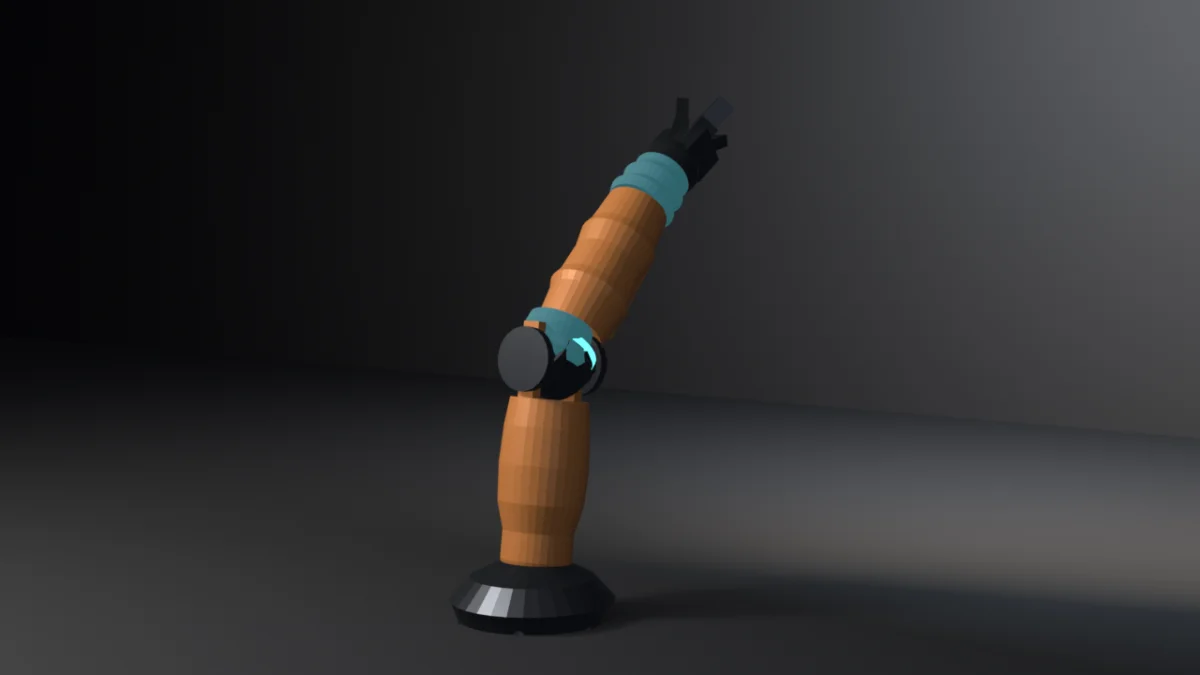
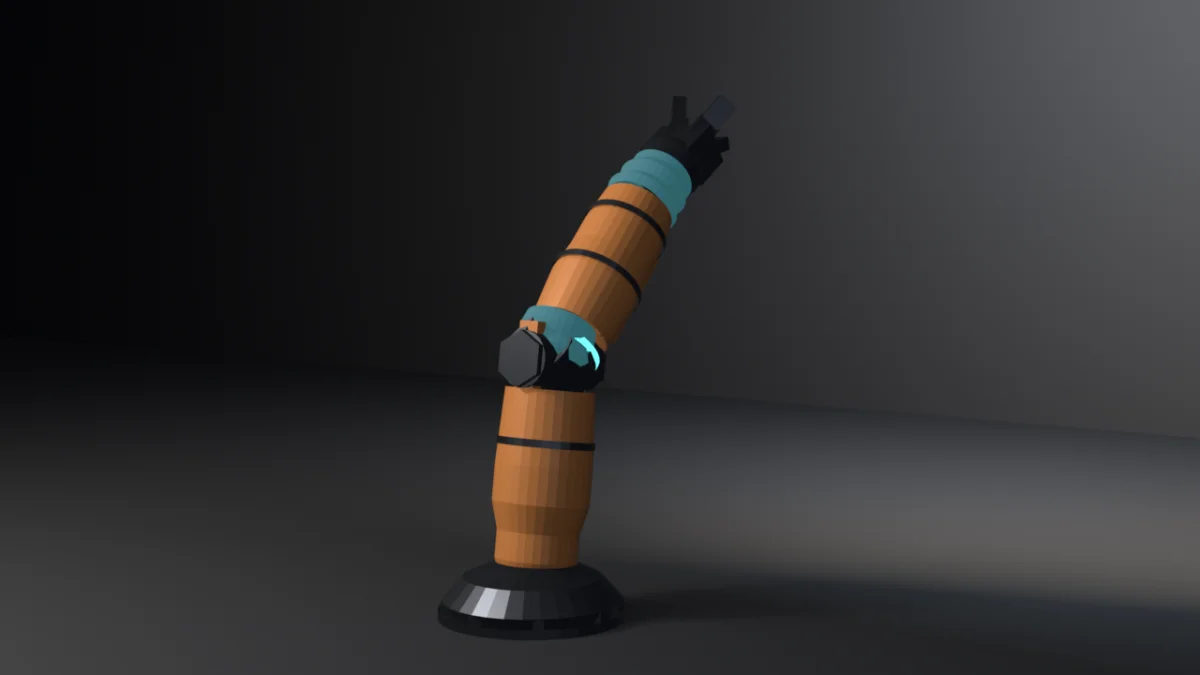
fix: give vertex-weight-limit's arm its armor pass
Round four: the shells still read as lathe pottery, the hinge cap as a
flat button, the pedestal as a lampshade. Thickened every shell ~15%,
swapped the round caps for hex bolt heads (6-segment cones — fasteners,
not buttons, flange bolts included), cut panel-seam grooves into the
upper arm and forearm so the armor reads as plates, and set the pedestal
on a wide bolted flange. The hinge mechanics from the previous round are
untouched: pin and caps stay with the clevis (Shoulder), knuckle rotates.

pre_max=5 holds; measured values identical on 5.1.2 and 4.5.11
(verts=1768, limited=160, sum 2.98e-08, pose 2.83e-03, lbs 2.67e-07).
Re-falsified: exits 4/6/8 (sums 1.616e-02, LBS dev 1.782). Claw margin
verified at 100 px by posed-vertex NDC projection.

diff --git a/docs/gallery/vertex-weight-limit/index.html b/docs/gallery/vertex-weight-limit/index.html
@@ -183,7 +183,7 @@
       <button class="copy-btn" id="copyRun" type="button">Copy</button>
     </div>
     <section class="detail-section md">
-<p>A runnable example that rigs a mech arm — bolted pedestal and shoulder fairing, an upper arm ending in clevis cheeks, the elbow hinge pin and knuckle barrel capped through a ribbed flex cuff, a long plated forearm, wrist cuff and collar, and a three-finger gripper — with deliberately rich five-bone weight bumps in the bellows, then enforces the game-engine <strong>maximum of four bone influences per vertex</strong> through the data API, following <a href="https://github.com/TMHSDigital/Blender-Developer-Tools/tree/main/skills/mesh-editing-and-bmesh/SKILL.md"><code>mesh-editing-and-bmesh</code></a> and building on the linear-blend-skinning precedent of <a href="https://github.com/TMHSDigital/Blender-Developer-Tools/tree/main/examples/armature-bend"><code>armature-bend</code></a>.</p>
+<p>A runnable example that rigs a mech arm — flanged bolted pedestal and shoulder fairing, a panel-seamed upper arm ending in clevis cheeks, the elbow hinge pin and knuckle barrel capped with hex bolts through a ribbed flex cuff, a long seam-grooved forearm, wrist cuff and collar, and a three-finger gripper — with deliberately rich five-bone weight bumps in the cuffs, then enforces the game-engine <strong>maximum of four bone influences per vertex</strong> through the data API, following <a href="https://github.com/TMHSDigital/Blender-Developer-Tools/tree/main/skills/mesh-editing-and-bmesh/SKILL.md"><code>mesh-editing-and-bmesh</code></a> and building on the linear-blend-skinning precedent of <a href="https://github.com/TMHSDigital/Blender-Developer-Tools/tree/main/examples/armature-bend"><code>armature-bend</code></a>.</p>
 <p><strong>Pipeline arc:</strong> modeling/LOD in <a href="https://github.com/TMHSDigital/Blender-Developer-Tools/tree/main/examples/lod-decimate-chain"><code>lod-decimate-chain</code></a>, weighting here, export in <a href="https://github.com/TMHSDigital/Blender-Developer-Tools/tree/main/examples/gltf-export-roundtrip"><code>gltf-export-roundtrip</code></a>.</p>
 <p><strong>What it witnesses:</strong> the skinning constraint every game engine enforces and AI-generated rigging code most often violates silently.</p>
 <p>1. <strong>The limit is a data-API operation, not a context operator.</strong> Instead of <code>bpy.ops.object.vertex_group_limit_total</code>, the example reads each vertex&#x27;s groups, keeps the top four by weight, <code>VertexGroup.remove</code>s the rest, and renormalizes the survivors. Dropping without renormalizing leaves sums at 0.986 — a mesh that shrinks toward the origin under load (the check&#x27;s measured failure, 1.438e-02 off unit sum). 2. <strong>The armature modifier is still exactly linear blend skinning</strong> after the limit: every depsgraph-evaluated vertex equals <code>Σ wᵢ · (pose.matrix @ bone.matrix_local.inverted()) @ rest</code>, with the weights <strong>read back from the mesh&#x27;s own deform layer</strong> (<code>v.groups</code>) — the weights on the mesh are the contract, not the weights you meant to write. Measured <code>lbs_err = 3.0e-07</code>. 3. <strong>Pruning must not damage the pose.</strong> Evaluated positions before and after the limit are held within 0.05 (measured 3.0e-03), the pedestal mount stays exactly pinned (Root is unposed), and the pre-limit authoring really carries five influences in the boots — otherwise the witness would be vacuous.</p>
@@ -294,12 +294,12 @@ GUNMETAL, ORANGE, RUBBER, ACCENT = <span class="n">0</span>, <span class="n">1</
     part_of.extend([bone] * (len(bm.verts) - n0v))
 
 
-<span class="k">def</span> cone_part(bm, r1, r2, depth, loc, rot, mat, part_of, bone):
+<span class="k">def</span> cone_part(bm, r1, r2, depth, loc, rot, mat, part_of, bone, segments=<span class="n">24</span>):
     <span class="s">&quot;&quot;&quot;One cylinder/cone shell along a rotated axis; tags `bone` for its verts.&quot;&quot;&quot;</span>
     n0f, n0v = len(bm.faces), len(bm.verts)
     m = (mathutils.Matrix.Translation(loc)
          @ mathutils.Euler(tuple(math.radians(a) <span class="k">for</span> a <span class="k">in</span> rot)).to_matrix().to_4x4())
-    bmesh.ops.create_cone(bm, cap_ends=<span class="k">True</span>, cap_tris=<span class="k">False</span>, segments=<span class="n">24</span>,
+    bmesh.ops.create_cone(bm, cap_ends=<span class="k">True</span>, cap_tris=<span class="k">False</span>, segments=segments,
                           radius1=r1, radius2=r2, depth=depth, matrix=m)
     <span class="k">for</span> f <span class="k">in</span> bm.faces[n0f:]:
         f.material_index = mat
@@ -322,62 +322,68 @@ GUNMETAL, ORANGE, RUBBER, ACCENT = <span class="n">0</span>, <span class="n">1</
                 <span class="k">for</span> v <span class="k">in</span> ring:
                     part_of.append(bone)
 
-        <span class="c"># bolted pedestal + shoulder fairing (rigid on Root)</span>
-        tag(lathe_part(bm, [(-<span class="n">0.35</span>, <span class="n">0.34</span>), (-<span class="n">0.05</span>, <span class="n">0.34</span>), (<span class="n">0.0</span>, <span class="n">0.40</span>),
-                            (<span class="n">0.06</span>, <span class="n">0.42</span>)], GUNMETAL), <span class="s">&quot;Root&quot;</span>)
-        tag(lathe_part(bm, [(<span class="n">0.02</span>, <span class="n">0.40</span>), (<span class="n">0.10</span>, <span class="n">0.44</span>), (<span class="n">0.22</span>, <span class="n">0.33</span>),
-                            (<span class="n">0.30</span>, <span class="n">0.17</span>), (<span class="n">0.34</span>, <span class="n">0.07</span>)], GUNMETAL), <span class="s">&quot;Root&quot;</span>)
-        <span class="k">for</span> k <span class="k">in</span> range(<span class="n">6</span>):  <span class="c"># the fairing&#x27;s bolt ring</span>
-            a = <span class="n">2</span> * math.pi * k / <span class="n">6</span>
-            cone_part(bm, <span class="n">0.05</span>, <span class="n">0.04</span>, <span class="n">0.06</span>,
-                      (<span class="n">0.36</span> * math.cos(a), <span class="n">0.36</span> * math.sin(a), <span class="n">0.03</span>),
-                      (<span class="n">0</span>, <span class="n">0</span>, <span class="n">0</span>), GUNMETAL, part_of, <span class="s">&quot;Root&quot;</span>)
+        <span class="c"># bolted pedestal + shoulder fairing on a wide flange (rigid on Root)</span>
+        tag(lathe_part(bm, [(-<span class="n">0.35</span>, <span class="n">0.38</span>), (-<span class="n">0.05</span>, <span class="n">0.38</span>), (<span class="n">0.0</span>, <span class="n">0.44</span>),
+                            (<span class="n">0.06</span>, <span class="n">0.46</span>)], GUNMETAL), <span class="s">&quot;Root&quot;</span>)
+        tag(lathe_part(bm, [(<span class="n">0.02</span>, <span class="n">0.44</span>), (<span class="n">0.10</span>, <span class="n">0.48</span>), (<span class="n">0.22</span>, <span class="n">0.37</span>),
+                            (<span class="n">0.30</span>, <span class="n">0.19</span>), (<span class="n">0.34</span>, <span class="n">0.08</span>)], GUNMETAL), <span class="s">&quot;Root&quot;</span>)
+        tag(lathe_part(bm, [(-<span class="n">0.02</span>, <span class="n">0.50</span>), (<span class="n">0.05</span>, <span class="n">0.50</span>)], GUNMETAL), <span class="s">&quot;Root&quot;</span>)
+        <span class="k">for</span> k <span class="k">in</span> range(<span class="n">8</span>):  <span class="c"># hex bolts around the flange rim</span>
+            a = <span class="n">2</span> * math.pi * k / <span class="n">8</span>
+            cone_part(bm, <span class="n">0.055</span>, <span class="n">0.055</span>, <span class="n">0.07</span>,
+                      (<span class="n">0.43</span> * math.cos(a), <span class="n">0.43</span> * math.sin(a), <span class="n">0.06</span>),
+                      (<span class="n">0</span>, <span class="n">0</span>, <span class="n">0</span>), GUNMETAL, part_of, <span class="s">&quot;Root&quot;</span>, segments=<span class="n">6</span>)
         <span class="c"># upper arm shell rooted deep inside the fairing — no gap at the</span>
         <span class="c"># shoulder when the joint articulates (rigid on Shoulder)</span>
-        tag(lathe_part(bm, [(<span class="n">0.10</span>, <span class="n">0.14</span>), (<span class="n">0.30</span>, <span class="n">0.19</span>), (<span class="n">0.45</span>, <span class="n">0.19</span>),
-                            (<span class="n">0.60</span>, <span class="n">0.23</span>), (<span class="n">0.80</span>, <span class="n">0.24</span>), (<span class="n">1.00</span>, <span class="n">0.23</span>),
-                            (<span class="n">1.15</span>, <span class="n">0.21</span>)], ORANGE), <span class="s">&quot;Shoulder&quot;</span>)
+        tag(lathe_part(bm, [(<span class="n">0.10</span>, <span class="n">0.16</span>), (<span class="n">0.30</span>, <span class="n">0.22</span>), (<span class="n">0.45</span>, <span class="n">0.22</span>),
+                            (<span class="n">0.60</span>, <span class="n">0.26</span>), (<span class="n">0.80</span>, <span class="n">0.26</span>), (<span class="n">1.00</span>, <span class="n">0.25</span>),
+                            (<span class="n">1.20</span>, <span class="n">0.24</span>)], ORANGE), <span class="s">&quot;Shoulder&quot;</span>)
+        <span class="c"># panel-seam groove on the upper arm (plate separation line)</span>
+        tag(lathe_part(bm, [(<span class="n">0.90</span>, <span class="n">0.262</span>), (<span class="n">0.94</span>, <span class="n">0.262</span>)], GUNMETAL), <span class="s">&quot;Shoulder&quot;</span>)
         <span class="c"># clevis cheek plates flanking the joint (rigid on Shoulder)</span>
         <span class="k">for</span> sy <span class="k">in</span> (-<span class="n">1</span>, <span class="n">1</span>):
-            box_part(bm, (<span class="n">0.10</span>, <span class="n">0.06</span>, <span class="n">0.50</span>), (<span class="n">0.0</span>, sy * <span class="n">0.175</span>, <span class="n">1.30</span>),
+            box_part(bm, (<span class="n">0.12</span>, <span class="n">0.07</span>, <span class="n">0.50</span>), (<span class="n">0.0</span>, sy * <span class="n">0.19</span>, <span class="n">1.30</span>),
                      (<span class="n">0</span>, <span class="n">0</span>, <span class="n">0</span>), ORANGE, part_of, <span class="s">&quot;Shoulder&quot;</span>)
         <span class="c"># elbow flex cuff behind the hinge: the five-influence zone the</span>
         <span class="c"># limit prunes (every ring inside the five-bump z window)</span>
-        tag(lathe_part(bm, [(<span class="n">1.33</span>, <span class="n">0.17</span>), (<span class="n">1.38</span>, <span class="n">0.19</span>), (<span class="n">1.43</span>, <span class="n">0.17</span>),
-                            (<span class="n">1.49</span>, <span class="n">0.19</span>), (<span class="n">1.55</span>, <span class="n">0.18</span>)], RUBBER), <span class="s">&quot;FLEX&quot;</span>)
+        tag(lathe_part(bm, [(<span class="n">1.33</span>, <span class="n">0.19</span>), (<span class="n">1.38</span>, <span class="n">0.21</span>), (<span class="n">1.43</span>, <span class="n">0.19</span>),
+                            (<span class="n">1.49</span>, <span class="n">0.21</span>), (<span class="n">1.55</span>, <span class="n">0.20</span>)], RUBBER), <span class="s">&quot;FLEX&quot;</span>)
         <span class="c"># the hinge pin stays with the clevis (Shoulder): the forearm&#x27;s</span>
         <span class="c"># knuckle barrel (Elbow) rotates around it — pin caps must not tilt</span>
-        cone_part(bm, <span class="n">0.13</span>, <span class="n">0.13</span>, <span class="n">0.44</span>, (<span class="n">0.0</span>, <span class="n">0.0</span>, <span class="n">1.35</span>), (<span class="n">90</span>, <span class="n">0</span>, <span class="n">0</span>),
+        cone_part(bm, <span class="n">0.15</span>, <span class="n">0.15</span>, <span class="n">0.50</span>, (<span class="n">0.0</span>, <span class="n">0.0</span>, <span class="n">1.35</span>), (<span class="n">90</span>, <span class="n">0</span>, <span class="n">0</span>),
                   GUNMETAL, part_of, <span class="s">&quot;Shoulder&quot;</span>)
-        cone_part(bm, <span class="n">0.165</span>, <span class="n">0.165</span>, <span class="n">0.26</span>, (<span class="n">0.0</span>, <span class="n">0.0</span>, <span class="n">1.35</span>), (<span class="n">90</span>, <span class="n">0</span>, <span class="n">0</span>),
+        cone_part(bm, <span class="n">0.185</span>, <span class="n">0.185</span>, <span class="n">0.28</span>, (<span class="n">0.0</span>, <span class="n">0.0</span>, <span class="n">1.35</span>), (<span class="n">90</span>, <span class="n">0</span>, <span class="n">0</span>),
                   GUNMETAL, part_of, <span class="s">&quot;Elbow&quot;</span>)
+        <span class="c"># hex bolt heads flush on the cheeks — fasteners, not buttons</span>
         <span class="k">for</span> sy <span class="k">in</span> (-<span class="n">1</span>, <span class="n">1</span>):
-            cone_part(bm, <span class="n">0.17</span>, <span class="n">0.17</span>, <span class="n">0.05</span>, (<span class="n">0.0</span>, sy * <span class="n">0.225</span>, <span class="n">1.35</span>),
-                      (<span class="n">90</span>, <span class="n">0</span>, <span class="n">0</span>), GUNMETAL, part_of, <span class="s">&quot;Shoulder&quot;</span>)
+            cone_part(bm, <span class="n">0.15</span>, <span class="n">0.15</span>, <span class="n">0.06</span>, (<span class="n">0.0</span>, sy * <span class="n">0.255</span>, <span class="n">1.35</span>),
+                      (<span class="n">90</span>, <span class="n">0</span>, <span class="n">0</span>), GUNMETAL, part_of, <span class="s">&quot;Shoulder&quot;</span>, segments=<span class="n">6</span>)
         <span class="c"># bright seal hoop on the cuff — the accent marking the primary</span>
         <span class="c"># pruned-weight zone</span>
-        tag(lathe_part(bm, [(<span class="n">1.42</span>, <span class="n">0.20</span>), (<span class="n">1.46</span>, <span class="n">0.20</span>)], ACCENT), <span class="s">&quot;Elbow&quot;</span>)
-        <span class="c"># long plated forearm with two ridges (rigid on Elbow)</span>
-        tag(lathe_part(bm, [(<span class="n">1.55</span>, <span class="n">0.19</span>), (<span class="n">1.75</span>, <span class="n">0.21</span>), (<span class="n">1.80</span>, <span class="n">0.23</span>),
-                            (<span class="n">1.86</span>, <span class="n">0.21</span>), (<span class="n">2.05</span>, <span class="n">0.20</span>), (<span class="n">2.18</span>, <span class="n">0.22</span>),
-                            (<span class="n">2.24</span>, <span class="n">0.20</span>), (<span class="n">2.45</span>, <span class="n">0.18</span>)], ORANGE), <span class="s">&quot;Elbow&quot;</span>)
+        tag(lathe_part(bm, [(<span class="n">1.42</span>, <span class="n">0.22</span>), (<span class="n">1.46</span>, <span class="n">0.22</span>)], ACCENT), <span class="s">&quot;Elbow&quot;</span>)
+        <span class="c"># long plated forearm with panel-seam grooves (rigid on Elbow)</span>
+        tag(lathe_part(bm, [(<span class="n">1.55</span>, <span class="n">0.22</span>), (<span class="n">1.75</span>, <span class="n">0.24</span>), (<span class="n">1.86</span>, <span class="n">0.25</span>),
+                            (<span class="n">2.05</span>, <span class="n">0.23</span>), (<span class="n">2.24</span>, <span class="n">0.23</span>), (<span class="n">2.45</span>, <span class="n">0.21</span>)],
+                       ORANGE), <span class="s">&quot;Elbow&quot;</span>)
+        tag(lathe_part(bm, [(<span class="n">1.88</span>, <span class="n">0.262</span>), (<span class="n">1.92</span>, <span class="n">0.262</span>)], GUNMETAL), <span class="s">&quot;Elbow&quot;</span>)
+        tag(lathe_part(bm, [(<span class="n">2.26</span>, <span class="n">0.242</span>), (<span class="n">2.30</span>, <span class="n">0.242</span>)], GUNMETAL), <span class="s">&quot;Elbow&quot;</span>)
         <span class="c"># armor blade along the forearm&#x27;s back (rigid on Elbow)</span>
-        box_part(bm, (<span class="n">0.10</span>, <span class="n">0.05</span>, <span class="n">0.60</span>), (<span class="n">0.0</span>, <span class="n">0.235</span>, <span class="n">2.02</span>),
+        box_part(bm, (<span class="n">0.12</span>, <span class="n">0.06</span>, <span class="n">0.60</span>), (<span class="n">0.0</span>, <span class="n">0.26</span>, <span class="n">2.02</span>),
                  (<span class="n">0</span>, <span class="n">0</span>, <span class="n">0</span>), ORANGE, part_of, <span class="s">&quot;Elbow&quot;</span>)
         <span class="c"># wrist flex bellows (second blend zone) + collar</span>
-        tag(lathe_part(bm, [(<span class="n">2.45</span>, <span class="n">0.18</span>), (<span class="n">2.51</span>, <span class="n">0.20</span>), (<span class="n">2.57</span>, <span class="n">0.16</span>),
-                            (<span class="n">2.64</span>, <span class="n">0.19</span>), (<span class="n">2.70</span>, <span class="n">0.16</span>), (<span class="n">2.75</span>, <span class="n">0.17</span>)],
+        tag(lathe_part(bm, [(<span class="n">2.45</span>, <span class="n">0.20</span>), (<span class="n">2.51</span>, <span class="n">0.22</span>), (<span class="n">2.57</span>, <span class="n">0.18</span>),
+                            (<span class="n">2.64</span>, <span class="n">0.21</span>), (<span class="n">2.70</span>, <span class="n">0.18</span>), (<span class="n">2.75</span>, <span class="n">0.19</span>)],
                        RUBBER), <span class="s">&quot;FLEX&quot;</span>)
-        tag(lathe_part(bm, [(<span class="n">2.75</span>, <span class="n">0.16</span>), (<span class="n">2.85</span>, <span class="n">0.175</span>), (<span class="n">2.90</span>, <span class="n">0.16</span>)],
+        tag(lathe_part(bm, [(<span class="n">2.75</span>, <span class="n">0.18</span>), (<span class="n">2.85</span>, <span class="n">0.195</span>), (<span class="n">2.90</span>, <span class="n">0.18</span>)],
                        GUNMETAL), <span class="s">&quot;Wrist&quot;</span>)
         <span class="c"># palm block (rigid on Wrist)</span>
-        box_part(bm, (<span class="n">0.30</span>, <span class="n">0.22</span>, <span class="n">0.24</span>), (<span class="n">0.0</span>, <span class="n">0.0</span>, <span class="n">2.98</span>),
+        box_part(bm, (<span class="n">0.34</span>, <span class="n">0.25</span>, <span class="n">0.26</span>), (<span class="n">0.0</span>, <span class="n">0.0</span>, <span class="n">2.98</span>),
                  (<span class="n">0</span>, <span class="n">0</span>, <span class="n">0</span>), GUNMETAL, part_of, <span class="s">&quot;Wrist&quot;</span>)
         <span class="c"># three two-segment fingers, splayed (rigid on Claw)</span>
         <span class="k">for</span> a_deg <span class="k">in</span> (<span class="n">90.0</span>, <span class="n">210.0</span>, <span class="n">330.0</span>):
             a = math.radians(a_deg)
-            <span class="k">for</span> pos, tilt, size <span class="k">in</span> (((<span class="n">0.08</span>, <span class="n">3.08</span>), <span class="n">12.0</span>, (<span class="n">0.085</span>, <span class="n">0.13</span>, <span class="n">0.22</span>)),
-                                    ((<span class="n">0.14</span>, <span class="n">3.26</span>), <span class="n">26.0</span>, (<span class="n">0.07</span>, <span class="n">0.11</span>, <span class="n">0.18</span>))):
+            <span class="k">for</span> pos, tilt, size <span class="k">in</span> (((<span class="n">0.09</span>, <span class="n">3.08</span>), <span class="n">12.0</span>, (<span class="n">0.095</span>, <span class="n">0.14</span>, <span class="n">0.22</span>)),
+                                    ((<span class="n">0.16</span>, <span class="n">3.26</span>), <span class="n">26.0</span>, (<span class="n">0.08</span>, <span class="n">0.12</span>, <span class="n">0.18</span>))):
                 off, z = pos
                 m = (mathutils.Matrix.Translation((<span class="n">0.0</span>, <span class="n">0.0</span>, z))
                      @ mathutils.Matrix.Rotation(a, <span class="n">4</span>, <span class="s">&#x27;Z&#x27;</span>)

diff --git a/examples/vertex-weight-limit/vertex_weight_limit.py b/examples/vertex-weight-limit/vertex_weight_limit.py
@@ -88,12 +88,12 @@ def box_part(bm, size, loc, rot, mat, part_of, bone):
     part_of.extend([bone] * (len(bm.verts) - n0v))
 
 
-def cone_part(bm, r1, r2, depth, loc, rot, mat, part_of, bone):
+def cone_part(bm, r1, r2, depth, loc, rot, mat, part_of, bone, segments=24):
     """One cylinder/cone shell along a rotated axis; tags `bone` for its verts."""
     n0f, n0v = len(bm.faces), len(bm.verts)
     m = (mathutils.Matrix.Translation(loc)
          @ mathutils.Euler(tuple(math.radians(a) for a in rot)).to_matrix().to_4x4())
-    bmesh.ops.create_cone(bm, cap_ends=True, cap_tris=False, segments=24,
+    bmesh.ops.create_cone(bm, cap_ends=True, cap_tris=False, segments=segments,
                           radius1=r1, radius2=r2, depth=depth, matrix=m)
     for f in bm.faces[n0f:]:
         f.material_index = mat
@@ -116,62 +116,68 @@ def build_arm():
                 for v in ring:
                     part_of.append(bone)
 
-        # bolted pedestal + shoulder fairing (rigid on Root)
-        tag(lathe_part(bm, [(-0.35, 0.34), (-0.05, 0.34), (0.0, 0.40),
-                            (0.06, 0.42)], GUNMETAL), "Root")
-        tag(lathe_part(bm, [(0.02, 0.40), (0.10, 0.44), (0.22, 0.33),
-                            (0.30, 0.17), (0.34, 0.07)], GUNMETAL), "Root")
-        for k in range(6):  # the fairing's bolt ring
-            a = 2 * math.pi * k / 6
-            cone_part(bm, 0.05, 0.04, 0.06,
-                      (0.36 * math.cos(a), 0.36 * math.sin(a), 0.03),
-                      (0, 0, 0), GUNMETAL, part_of, "Root")
+        # bolted pedestal + shoulder fairing on a wide flange (rigid on Root)
+        tag(lathe_part(bm, [(-0.35, 0.38), (-0.05, 0.38), (0.0, 0.44),
+                            (0.06, 0.46)], GUNMETAL), "Root")
+        tag(lathe_part(bm, [(0.02, 0.44), (0.10, 0.48), (0.22, 0.37),
+                            (0.30, 0.19), (0.34, 0.08)], GUNMETAL), "Root")
+        tag(lathe_part(bm, [(-0.02, 0.50), (0.05, 0.50)], GUNMETAL), "Root")
+        for k in range(8):  # hex bolts around the flange rim
+            a = 2 * math.pi * k / 8
+            cone_part(bm, 0.055, 0.055, 0.07,
+                      (0.43 * math.cos(a), 0.43 * math.sin(a), 0.06),
+                      (0, 0, 0), GUNMETAL, part_of, "Root", segments=6)
         # upper arm shell rooted deep inside the fairing — no gap at the
         # shoulder when the joint articulates (rigid on Shoulder)
-        tag(lathe_part(bm, [(0.10, 0.14), (0.30, 0.19), (0.45, 0.19),
-                            (0.60, 0.23), (0.80, 0.24), (1.00, 0.23),
-                            (1.15, 0.21)], ORANGE), "Shoulder")
+        tag(lathe_part(bm, [(0.10, 0.16), (0.30, 0.22), (0.45, 0.22),
+                            (0.60, 0.26), (0.80, 0.26), (1.00, 0.25),
+                            (1.20, 0.24)], ORANGE), "Shoulder")
+        # panel-seam groove on the upper arm (plate separation line)
+        tag(lathe_part(bm, [(0.90, 0.262), (0.94, 0.262)], GUNMETAL), "Shoulder")
         # clevis cheek plates flanking the joint (rigid on Shoulder)
         for sy in (-1, 1):
-            box_part(bm, (0.10, 0.06, 0.50), (0.0, sy * 0.175, 1.30),
+            box_part(bm, (0.12, 0.07, 0.50), (0.0, sy * 0.19, 1.30),
                      (0, 0, 0), ORANGE, part_of, "Shoulder")
         # elbow flex cuff behind the hinge: the five-influence zone the
         # limit prunes (every ring inside the five-bump z window)
-        tag(lathe_part(bm, [(1.33, 0.17), (1.38, 0.19), (1.43, 0.17),
-                            (1.49, 0.19), (1.55, 0.18)], RUBBER), "FLEX")
+        tag(lathe_part(bm, [(1.33, 0.19), (1.38, 0.21), (1.43, 0.19),
+                            (1.49, 0.21), (1.55, 0.20)], RUBBER), "FLEX")
         # the hinge pin stays with the clevis (Shoulder): the forearm's
         # knuckle barrel (Elbow) rotates around it — pin caps must not tilt
-        cone_part(bm, 0.13, 0.13, 0.44, (0.0, 0.0, 1.35), (90, 0, 0),
+        cone_part(bm, 0.15, 0.15, 0.50, (0.0, 0.0, 1.35), (90, 0, 0),
                   GUNMETAL, part_of, "Shoulder")
-        cone_part(bm, 0.165, 0.165, 0.26, (0.0, 0.0, 1.35), (90, 0, 0),
+        cone_part(bm, 0.185, 0.185, 0.28, (0.0, 0.0, 1.35), (90, 0, 0),
                   GUNMETAL, part_of, "Elbow")
+        # hex bolt heads flush on the cheeks — fasteners, not buttons
         for sy in (-1, 1):
-            cone_part(bm, 0.17, 0.17, 0.05, (0.0, sy * 0.225, 1.35),
-                      (90, 0, 0), GUNMETAL, part_of, "Shoulder")
+            cone_part(bm, 0.15, 0.15, 0.06, (0.0, sy * 0.255, 1.35),
+                      (90, 0, 0), GUNMETAL, part_of, "Shoulder", segments=6)
         # bright seal hoop on the cuff — the accent marking the primary
         # pruned-weight zone
-        tag(lathe_part(bm, [(1.42, 0.20), (1.46, 0.20)], ACCENT), "Elbow")
-        # long plated forearm with two ridges (rigid on Elbow)
-        tag(lathe_part(bm, [(1.55, 0.19), (1.75, 0.21), (1.80, 0.23),
-                            (1.86, 0.21), (2.05, 0.20), (2.18, 0.22),
-                            (2.24, 0.20), (2.45, 0.18)], ORANGE), "Elbow")
+        tag(lathe_part(bm, [(1.42, 0.22), (1.46, 0.22)], ACCENT), "Elbow")
+        # long plated forearm with panel-seam grooves (rigid on Elbow)
+        tag(lathe_part(bm, [(1.55, 0.22), (1.75, 0.24), (1.86, 0.25),
+                            (2.05, 0.23), (2.24, 0.23), (2.45, 0.21)],
+                       ORANGE), "Elbow")
+        tag(lathe_part(bm, [(1.88, 0.262), (1.92, 0.262)], GUNMETAL), "Elbow")
+        tag(lathe_part(bm, [(2.26, 0.242), (2.30, 0.242)], GUNMETAL), "Elbow")
         # armor blade along the forearm's back (rigid on Elbow)
-        box_part(bm, (0.10, 0.05, 0.60), (0.0, 0.235, 2.02),
+        box_part(bm, (0.12, 0.06, 0.60), (0.0, 0.26, 2.02),
                  (0, 0, 0), ORANGE, part_of, "Elbow")
         # wrist flex bellows (second blend zone) + collar
-        tag(lathe_part(bm, [(2.45, 0.18), (2.51, 0.20), (2.57, 0.16),
-                            (2.64, 0.19), (2.70, 0.16), (2.75, 0.17)],
+        tag(lathe_part(bm, [(2.45, 0.20), (2.51, 0.22), (2.57, 0.18),
+                            (2.64, 0.21), (2.70, 0.18), (2.75, 0.19)],
                        RUBBER), "FLEX")
-        tag(lathe_part(bm, [(2.75, 0.16), (2.85, 0.175), (2.90, 0.16)],
+        tag(lathe_part(bm, [(2.75, 0.18), (2.85, 0.195), (2.90, 0.18)],
                        GUNMETAL), "Wrist")
         # palm block (rigid on Wrist)
-        box_part(bm, (0.30, 0.22, 0.24), (0.0, 0.0, 2.98),
+        box_part(bm, (0.34, 0.25, 0.26), (0.0, 0.0, 2.98),
                  (0, 0, 0), GUNMETAL, part_of, "Wrist")
         # three two-segment fingers, splayed (rigid on Claw)
         for a_deg in (90.0, 210.0, 330.0):
             a = math.radians(a_deg)
-            for pos, tilt, size in (((0.08, 3.08), 12.0, (0.085, 0.13, 0.22)),
-                                    ((0.14, 3.26), 26.0, (0.07, 0.11, 0.18))):
+            for pos, tilt, size in (((0.09, 3.08), 12.0, (0.095, 0.14, 0.22)),
+                                    ((0.16, 3.26), 26.0, (0.08, 0.12, 0.18))):
                 off, z = pos
                 m = (mathutils.Matrix.Translation((0.0, 0.0, z))
                      @ mathutils.Matrix.Rotation(a, 4, 'Z')

diff --git a/examples/vertex-weight-limit/README.md b/examples/vertex-weight-limit/README.md
@@ -1,10 +1,11 @@
 # Vertex Weight Limit
 
-A runnable example that rigs a mech arm — bolted pedestal and shoulder
-fairing, an upper arm ending in clevis cheeks, the elbow hinge pin and
-knuckle barrel capped through a ribbed flex cuff, a long plated forearm,
-wrist cuff and collar, and a three-finger gripper — with deliberately rich five-bone weight
-bumps in the bellows, then enforces the game-engine
+A runnable example that rigs a mech arm — flanged bolted pedestal and
+shoulder fairing, a panel-seamed upper arm ending in clevis cheeks, the
+elbow hinge pin and knuckle barrel capped with hex bolts through a ribbed
+flex cuff, a long seam-grooved forearm, wrist cuff and collar, and a
+three-finger gripper — with deliberately rich five-bone weight bumps in
+the cuffs, then enforces the game-engine
 **maximum of four bone influences per vertex** through the data API, following
 [`mesh-editing-and-bmesh`](../../skills/mesh-editing-and-bmesh/SKILL.md) and
 building on the linear-blend-skinning precedent of

diff --git a/README.md b/README.md
@@ -506,7 +506,7 @@ as the caught failure mode.
 </tr>
 <tr>
 <td width="46%" valign="middle">
-<a href="examples/vertex-weight-limit/"><img src="examples/vertex-weight-limit/preview.webp" alt="Vertex weight limit: a posed mech arm on a dark studio floor - orange armor shells, a glowing teal elbow bellows around the hinge pin, long plated forearm, three-finger gripper - deformed by weights pruned to the four-influence engine cap" /></a>
+<a href="examples/vertex-weight-limit/"><img src="examples/vertex-weight-limit/preview.webp" alt="Vertex weight limit: a posed mech arm on a dark studio floor - orange armor shells, a glowing teal flex cuff around the hex-bolted elbow hinge, long plated forearm, three-finger gripper - deformed by weights pruned to the four-influence engine cap" /></a>
 </td>
 <td valign="middle">
 